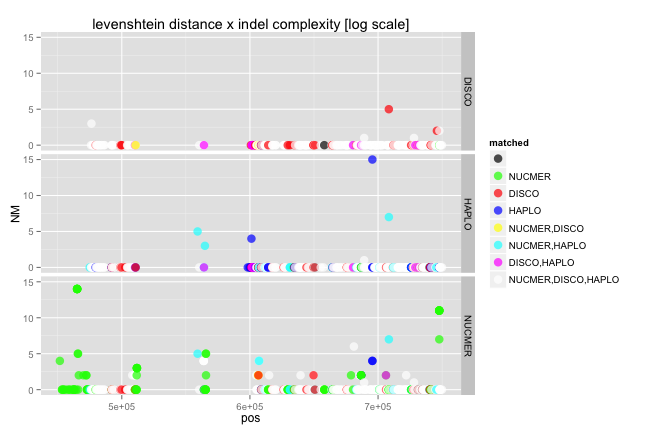
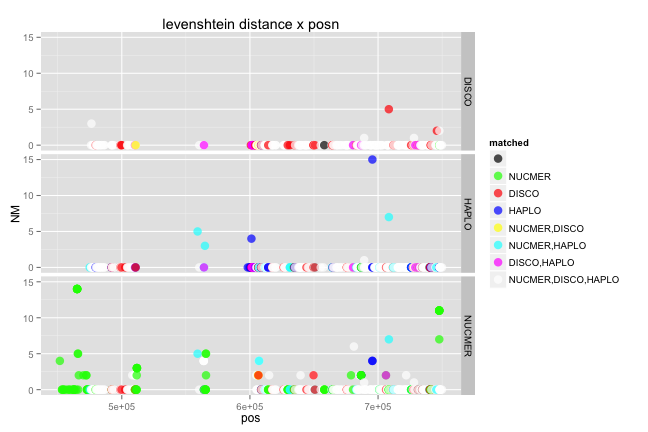
3 way Levenshtein distance report more complete

Changed region(s): [[0.1235, 0.0301, 0.6481, 0.0903]]

diff --git a/reports/150729_swscore_3way_halfmeg/runAnalysisSW_3way.md b/reports/150729_swscore_3way_halfmeg/runAnalysisSW_3way.md
@@ -157,7 +157,7 @@ ggplot(subset(SWcf,set==matched),aes(LD,NM,colour=matched)) +
 ```r
 ggplot(SWcf,aes(pos,NM,colour=matched)) + 
   geom_point(size=4,alpha=0.7) +  scale_colour_manual(values = colours) + 
-   ggtitle("levenshtein distance x indel complexity [log scale]") +
+   ggtitle("levenshtein distance x posn") +
   facet_grid(set ~ .)
 ```
 
@@ -166,7 +166,7 @@ ggplot(SWcf,aes(pos,NM,colour=matched)) +
 ```r
 ggplot(SWcf,aes(length,NM,colour=matched)) + 
   geom_point(size=4,alpha=0.7) + scale_colour_manual(values = colours) + 
-   ggtitle("levenshtein distance x indel complexity [log scale]") +
+   ggtitle("levenshtein distance x indel length") +
   facet_grid(set ~ .)
 ```
 
